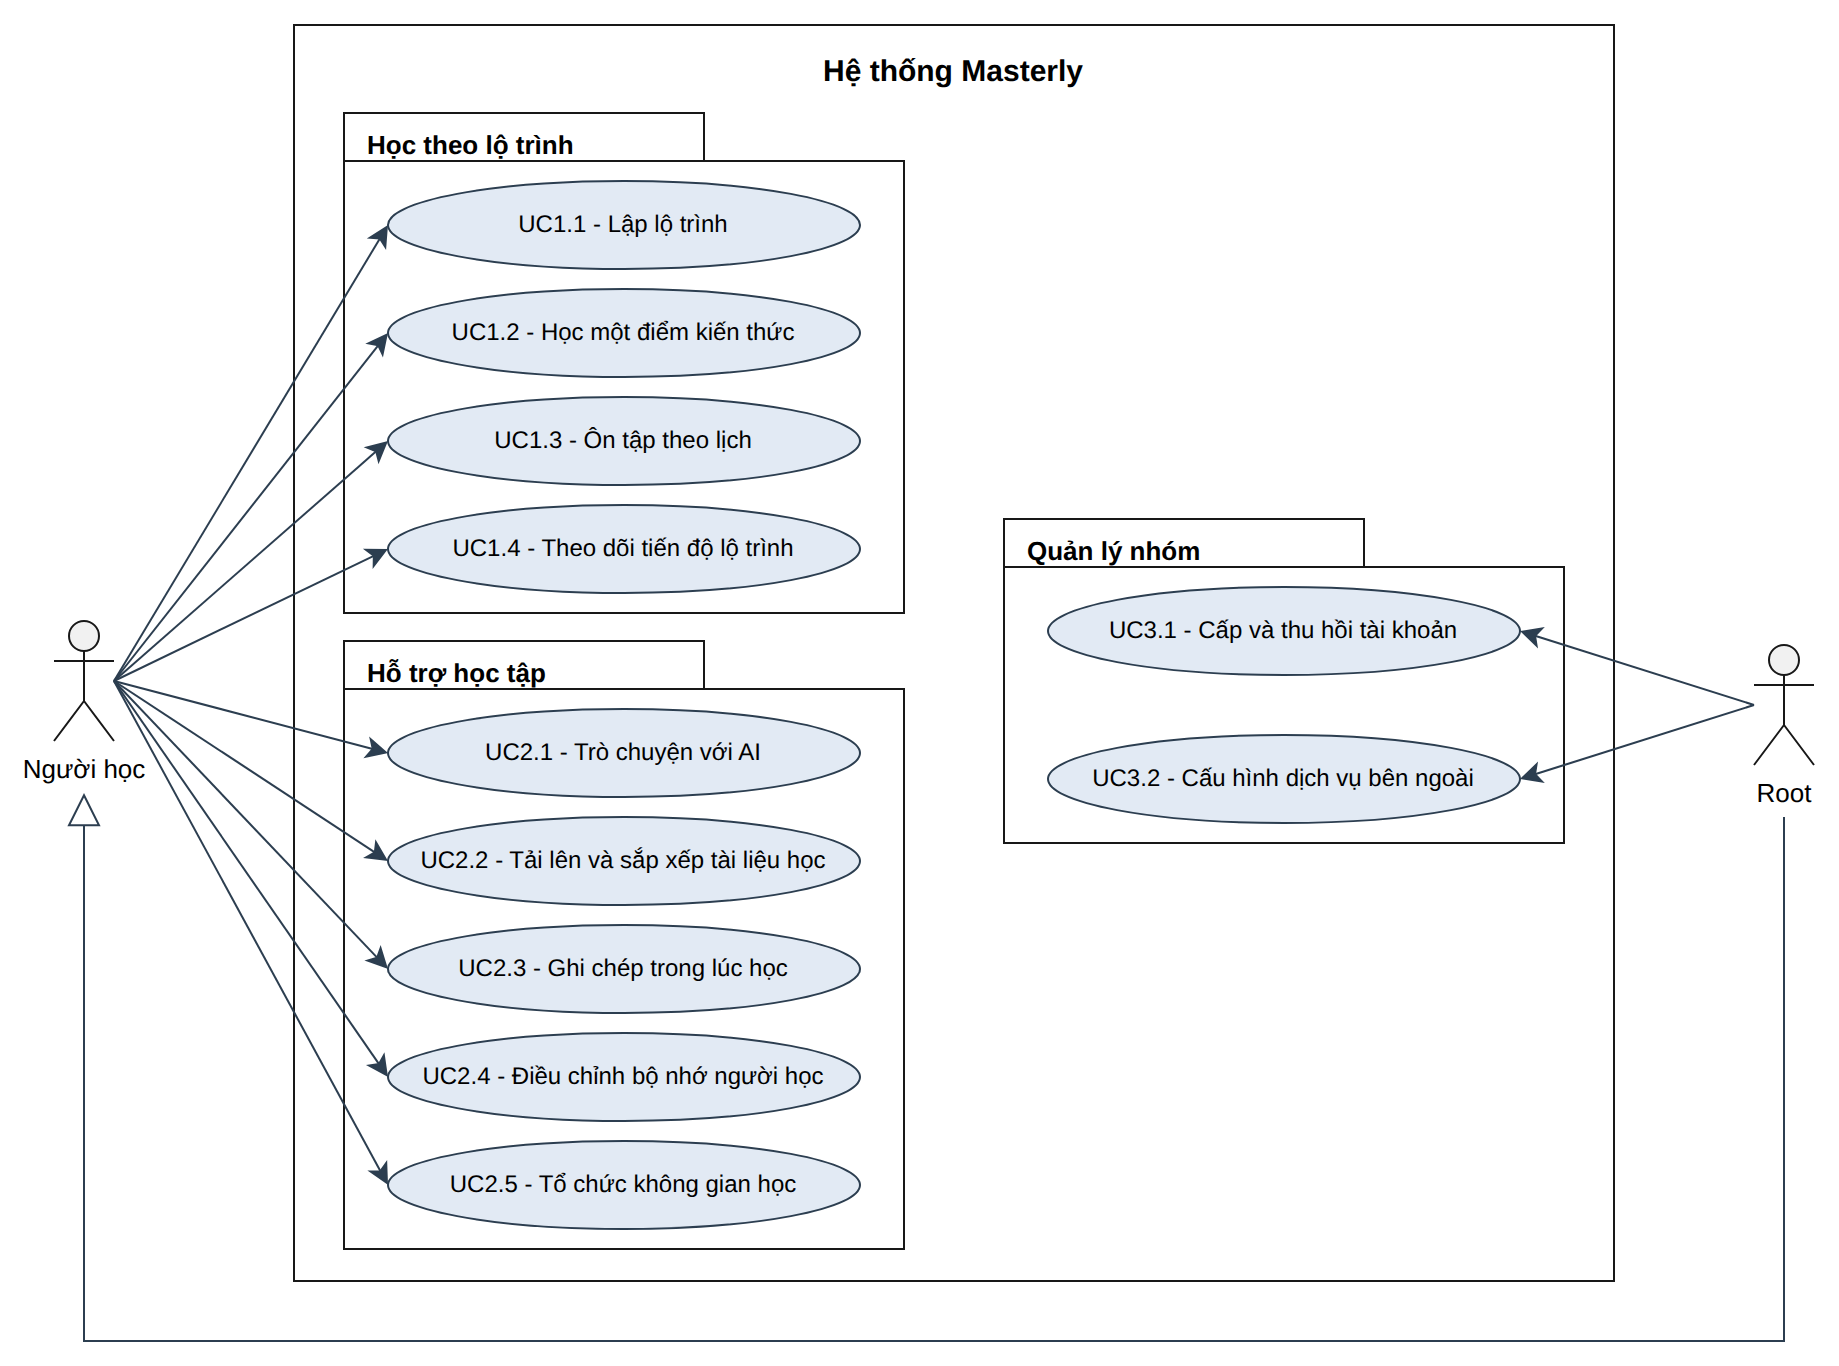
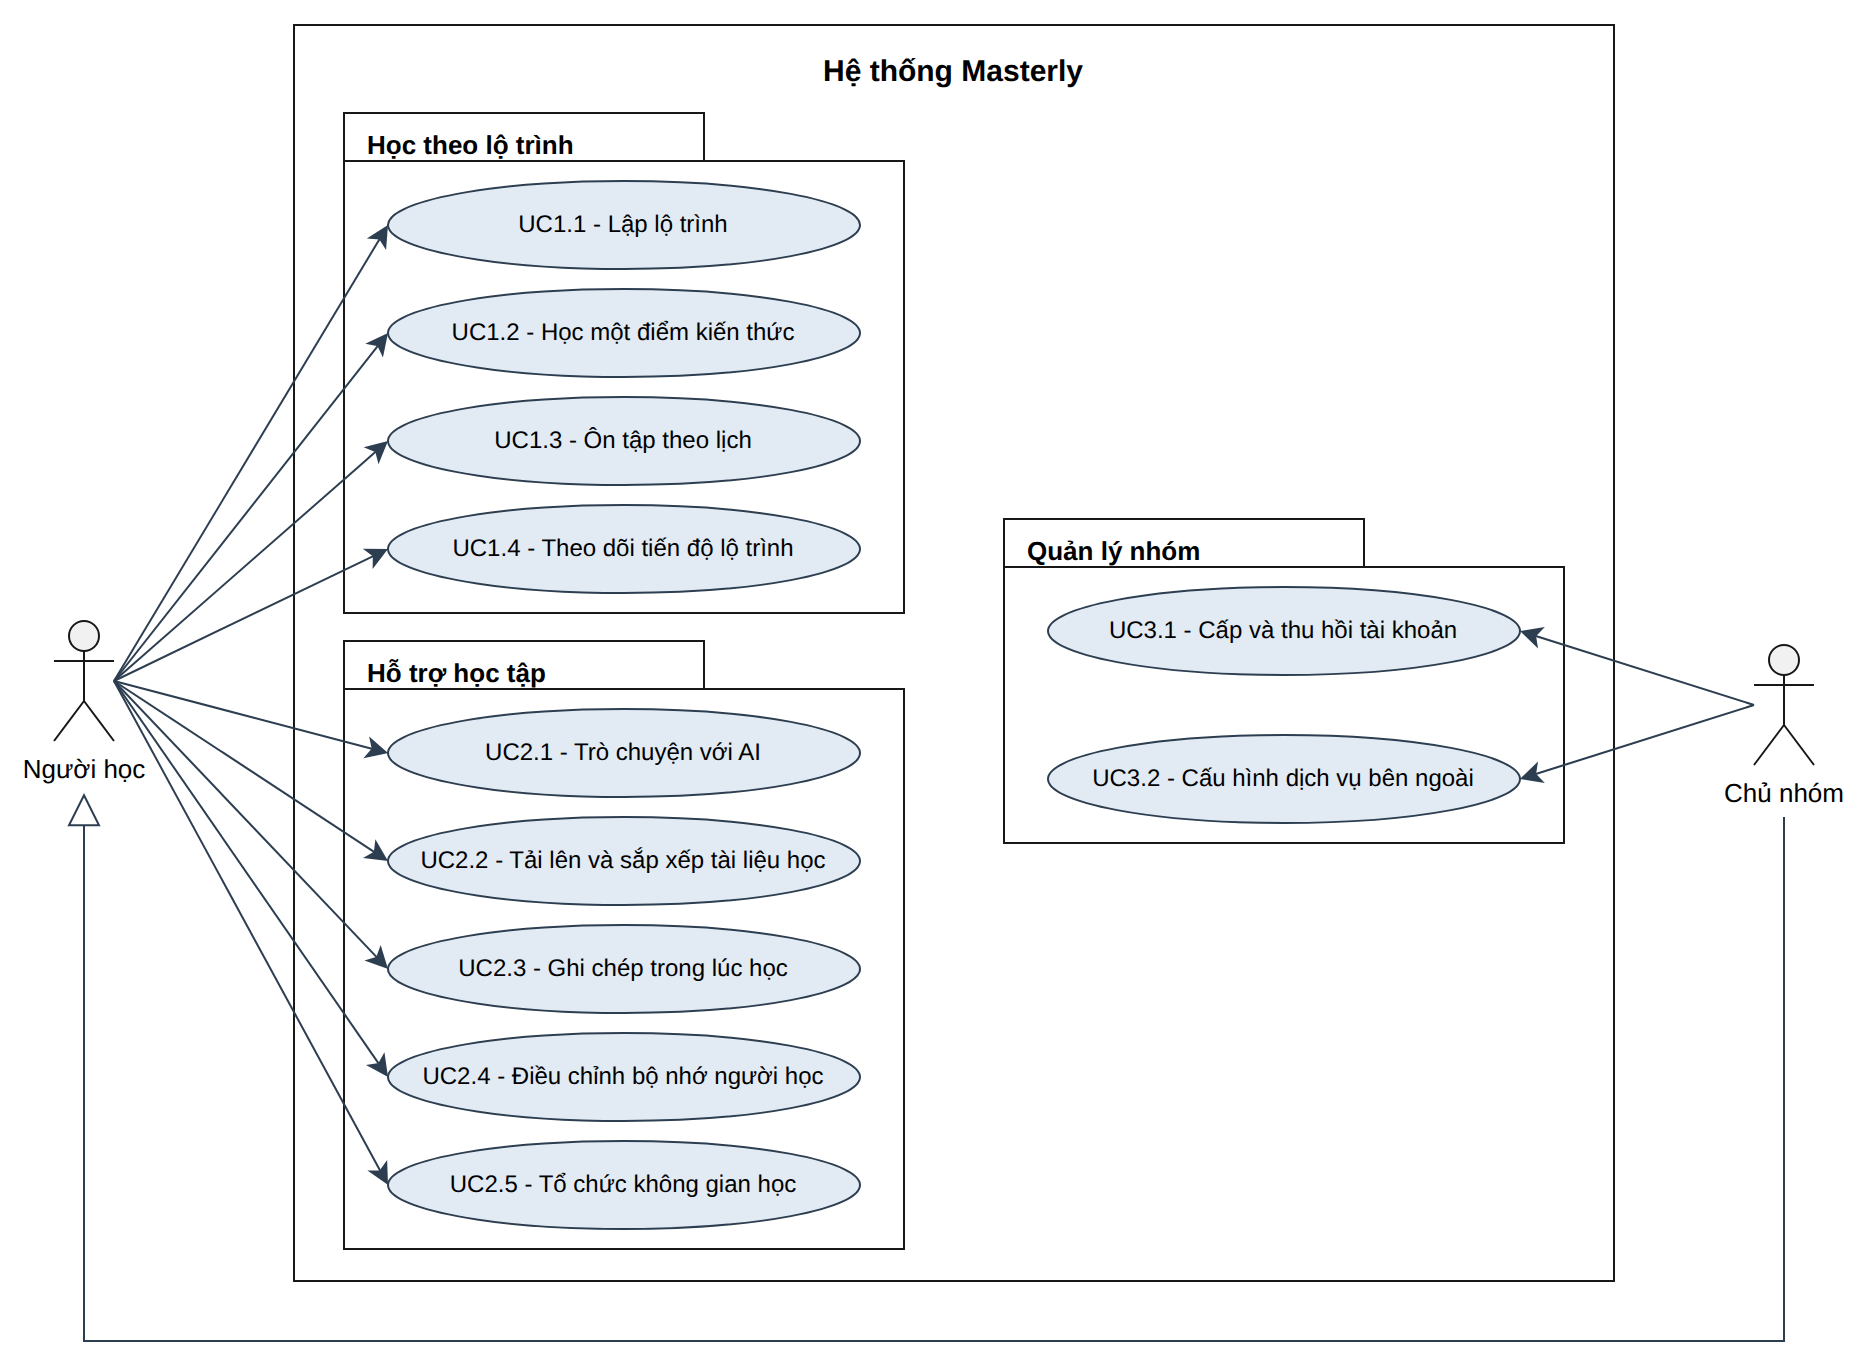
docs: call the self-registered account the group owner

diff --git a/report/chuong-2-phan-tich-yeu-cau.md b/report/chuong-2-phan-tich-yeu-cau.md
@@ -85,21 +85,21 @@ Hình 2.1. Biểu đồ hoạt động của quy trình học theo lộ trình
 ### 2.1.5. Phạm vi hệ thống
 
 - Ứng dụng web, giao diện tiếng Việt và tiếng Anh.
-- Mỗi người dùng có tài khoản và dữ liệu riêng. Ai cũng tự đăng ký được một tài khoản root bằng email và mật khẩu; root cấp tài khoản cho người học trong nhóm của mình.
+- Mỗi người dùng có tài khoản và dữ liệu riêng. Ai cũng tự đăng ký được một tài khoản chủ nhóm bằng email và mật khẩu; chủ nhóm cấp tài khoản cho người học trong nhóm của mình.
 - Việc sinh câu trả lời, xử lý tài liệu và tìm kiếm web dùng dịch vụ AI bên ngoài; hệ thống không tự huấn luyện mô hình.
 
 ## 2.2. Yêu cầu chức năng
 
 ### 2.2.1. Xác định các tác nhân
 
-Hệ thống có hai tác nhân. Mỗi root cùng các người học do root đó cấp tài khoản tạo thành một nhóm; hệ thống có nhiều nhóm và các nhóm tách biệt nhau. Các dịch vụ bên ngoài mà hệ thống kết nối tới không phải tác nhân.
+Hệ thống có hai tác nhân. Mỗi chủ nhóm cùng các người học do chủ nhóm đó cấp tài khoản tạo thành một nhóm; hệ thống có nhiều nhóm và các nhóm tách biệt nhau. 
 
 Bảng 2.2. Danh sách các tác nhân của hệ thống
 
 | STT | Tác nhân | Mô tả |
 |---|---|---|
-| 1 | Người học | Người dùng tài khoản do root cấp, dùng các chức năng học tập trên dữ liệu của riêng mình. |
-| 2 | Root | Người tự đăng ký tài khoản. Root học như người học, thêm quyền quản lý tài khoản người học trong nhóm và cấu hình các dịch vụ bên ngoài cho nhóm. |
+| 1 | Người học | Người dùng tài khoản do chủ nhóm cấp, dùng các chức năng học tập trên dữ liệu của riêng mình. |
+| 2 | Chủ nhóm | Người tự đăng ký tài khoản. Chủ nhóm học như người học, thêm quyền quản lý tài khoản người học trong nhóm và cấu hình các dịch vụ bên ngoài cho nhóm. |
 
 ### 2.2.2. Biểu đồ ca sử dụng tổng quát
 
@@ -107,9 +107,9 @@ Các ca sử dụng được chia thành ba nhóm (Hình 2.2):
 
 - Học theo lộ trình: phần lõi của hệ thống.
 - Hỗ trợ học tập: các chức năng phục vụ việc học, gồm hỏi đáp, tài liệu, ghi chép, bộ nhớ và không gian học.
-- Quản lý nhóm: phần root dùng để lập nhóm học và đưa các dịch vụ bên ngoài vào hoạt động.
+- Quản lý nhóm: phần chủ nhóm dùng để lập nhóm học và cấu hình các dịch vụ bên ngoài cho một nhóm.
 
-Người học dùng các ca sử dụng của hai nhóm đầu. Root có toàn bộ ca sử dụng của người học, thêm cấp và thu hồi tài khoản, cấu hình dịch vụ bên ngoài.
+Người học dùng các ca sử dụng của hai nhóm đầu. Chủ nhóm có toàn bộ ca sử dụng của người học, thêm cấp và thu hồi tài khoản, cấu hình dịch vụ bên ngoài.
 
 ![Hình 2.2. Biểu đồ ca sử dụng tổng quát của hệ thống Masterly](images/ca-su-dung-tong-quat.png)
 
@@ -128,8 +128,8 @@ Bảng 2.3. Danh sách các ca sử dụng của hệ thống
 | | UC2.3 | Ghi chép trong lúc học | Người học |
 | | UC2.4 | Điều chỉnh bộ nhớ người học | Người học |
 | | UC2.5 | Tổ chức không gian học | Người học |
-| 3. Quản lý nhóm | UC3.1 | Cấp và thu hồi tài khoản | Root |
-| | UC3.2 | Cấu hình dịch vụ bên ngoài | Root |
+| 3. Quản lý nhóm | UC3.1 | Cấp và thu hồi tài khoản | Chủ nhóm |
+| | UC3.2 | Cấu hình dịch vụ bên ngoài | Chủ nhóm |
 
 ### 2.2.3. Đặc tả các ca sử dụng
 
@@ -400,44 +400,44 @@ Hậu điều kiện: Không gian học được tạo hoặc thay đổi; các 
 
 #### UC3.1 - Cấp và thu hồi tài khoản
 
-Tác nhân chính: Root.
+Tác nhân chính: Chủ nhóm.
 
-Mô tả tóm lược: Hình 2.12 mô tả ca sử dụng root cấp tài khoản cho người học mới trong nhóm và thu hồi tài khoản không còn dùng. Người học đăng nhập bằng tài khoản được cấp.
+Mô tả tóm lược: Hình 2.12 mô tả ca sử dụng chủ nhóm cấp tài khoản cho người học mới trong nhóm và thu hồi tài khoản không còn dùng. Người học đăng nhập bằng tài khoản được cấp.
 
 ![Hình 2.12. Biểu đồ ca sử dụng UC3.1 - Cấp và thu hồi tài khoản](images/uc3-1-cap-va-thu-hoi-tai-khoan.png)
 
 Hình 2.12. Biểu đồ ca sử dụng UC3.1 - Cấp và thu hồi tài khoản
 
-Luồng cơ bản: luồng bắt đầu khi root mở trang quản lý tài khoản và kết thúc khi tài khoản mới được tạo.
+Luồng cơ bản: luồng bắt đầu khi chủ nhóm mở trang quản lý tài khoản và kết thúc khi tài khoản mới được tạo.
 
 Bảng 2.13. Luồng cơ bản của UC3.1
 
 | Hành động của tác nhân | Phản ứng của hệ thống | Dữ liệu liên quan |
 |---|---|---|
 | 1. Mở trang quản lý tài khoản. | 2. Hiển thị danh sách, thông tin các tài khoản trong nhóm. | Danh sách tài khoản |
-| 3. Chọn cấp tài khoản mới, nhập email và mật khẩu. | 4. Kiểm tra thông tin hợp lệ rồi tạo tài khoản trong nhóm; tài khoản mới dùng được ngay các dịch vụ bên ngoài root đã cấu hình. | Email, mật khẩu |
+| 3. Chọn cấp tài khoản mới, nhập email và mật khẩu. | 4. Kiểm tra thông tin hợp lệ rồi tạo tài khoản trong nhóm; tài khoản mới dùng được ngay các dịch vụ bên ngoài chủ nhóm đã cấu hình. | Email, mật khẩu |
 | | 5. Báo đã tạo và thêm tài khoản vào danh sách. | Tài khoản |
 
 Luồng thay thế:
 
-- Luồng thay thế 1 (Thu hồi tài khoản): tại bước 3, root chọn thu hồi một tài khoản trong nhóm và xác nhận. Hệ thống xóa tài khoản đó; người dùng đó không đăng nhập được nữa.
+- Luồng thay thế 1 (Thu hồi tài khoản): tại bước 3, chủ nhóm chọn thu hồi một tài khoản trong nhóm và xác nhận. Hệ thống xóa tài khoản đó; người dùng đó không đăng nhập được nữa.
 - Luồng thay thế 2 (Email đã được dùng): tại bước 4, nếu email đã có tài khoản, hệ thống báo lỗi và yêu cầu nhập email khác.
 
-Tiền điều kiện: Root đã đăng nhập.
+Tiền điều kiện: Chủ nhóm đã đăng nhập.
 
 Hậu điều kiện: Tài khoản mới đăng nhập được ngay; tài khoản bị thu hồi không đăng nhập được nữa.
 
 #### UC3.2 - Cấu hình dịch vụ bên ngoài
 
-Tác nhân chính: Root.
+Tác nhân chính: Chủ nhóm.
 
-Mô tả tóm lược: Hình 2.13 mô tả ca sử dụng root khai báo các dịch vụ AI bên ngoài và chọn mô hình dùng chung cho cả nhóm. Có ba dịch vụ: mô hình ngôn ngữ lớn (LLM) để trả lời câu hỏi, mô hình nhúng (embedding) để xử lý tài liệu, và dịch vụ tìm kiếm web. Chỉ root thấy và sửa được phần cấu hình của nhóm.
+Mô tả tóm lược: Hình 2.13 mô tả ca sử dụng chủ nhóm khai báo các dịch vụ AI bên ngoài và chọn mô hình dùng chung cho cả nhóm. Có ba dịch vụ: mô hình ngôn ngữ lớn (LLM) để trả lời câu hỏi, mô hình nhúng (embedding) để xử lý tài liệu, và dịch vụ tìm kiếm web. Chỉ chủ nhóm thấy và sửa được phần cấu hình của nhóm.
 
 ![Hình 2.13. Biểu đồ ca sử dụng UC3.2 - Cấu hình dịch vụ bên ngoài](images/uc3-2-cau-hinh-dich-vu-ben-ngoai.png)
 
 Hình 2.13. Biểu đồ ca sử dụng UC3.2 - Cấu hình dịch vụ bên ngoài
 
-Luồng cơ bản: luồng bắt đầu khi root mở trang cấu hình dịch vụ và kết thúc khi đã chọn mô hình cho các dịch vụ.
+Luồng cơ bản: luồng bắt đầu khi chủ nhóm mở trang cấu hình dịch vụ và kết thúc khi đã chọn mô hình cho các dịch vụ.
 
 Bảng 2.14. Luồng cơ bản của UC3.2
 
@@ -450,9 +450,9 @@ Bảng 2.14. Luồng cơ bản của UC3.2
 
 Luồng thay thế:
 
-- Luồng thay thế 1 (Kết nối không thành công): tại bước 6, nếu không kết nối được, ví dụ khóa truy cập sai, hệ thống báo lỗi kèm lý do. Root sửa thông tin rồi kiểm tra lại.
+- Luồng thay thế 1 (Kết nối không thành công): tại bước 6, nếu không kết nối được, ví dụ khóa truy cập sai, hệ thống báo lỗi kèm lý do. Chủ nhóm sửa thông tin rồi kiểm tra lại.
 
-Tiền điều kiện: Root đã đăng nhập.
+Tiền điều kiện: Chủ nhóm đã đăng nhập.
 
 Hậu điều kiện: Các dịch vụ bên ngoài được cấu hình và kiểm tra; mọi người trong nhóm dùng chung cấu hình này.
 
@@ -462,9 +462,9 @@ Ngoài các chức năng ở mục 2.2, hệ thống cần đáp ứng các yêu
 
 Bảo mật và quyền riêng tư:
 
-- Người dùng tự đăng ký tài khoản root bằng email và mật khẩu, hoặc dùng tài khoản do root cấp; phiên đăng nhập có thời hạn.
+- Người dùng tự đăng ký tài khoản chủ nhóm bằng email và mật khẩu, hoặc dùng tài khoản do chủ nhóm cấp; phiên đăng nhập có thời hạn.
 - Dữ liệu của mỗi người được tách riêng; người học chỉ xem được dữ liệu của mình. Các nhóm tách biệt nhau.
-- Khóa truy cập các dịch vụ bên ngoài chỉ root của nhóm sửa được và không bao giờ hiển thị đầy đủ.
+- Khóa truy cập các dịch vụ bên ngoài chỉ chủ nhóm sửa được và không bao giờ hiển thị đầy đủ.
 
 Tin cậy:
 
@@ -490,6 +490,6 @@ Khả năng thay thế:
 
 Chương này đã khảo sát bài toán tự học bằng AI và các giải pháp hiện có, từ đó xác định Masterly là một vòng học khép kín: lập lộ trình theo mục tiêu, học từng điểm kiến thức đến khi nắm vững và ôn tập theo lịch.
 
-Hệ thống có hai tác nhân là người học và root, với 11 ca sử dụng chia thành ba nhóm. Mỗi ca sử dụng được đặc tả bằng biểu đồ riêng, luồng cơ bản và các luồng thay thế chính. Các yêu cầu phi chức năng tập trung vào bảo mật dữ liệu, độ tin cậy, tính nhất quán khi xét nắm vững và tính dễ dùng.
+Hệ thống có hai tác nhân là người học và chủ nhóm, với 11 ca sử dụng chia thành ba nhóm. Mỗi ca sử dụng được đặc tả bằng biểu đồ riêng, luồng cơ bản và các luồng thay thế chính. Các yêu cầu phi chức năng tập trung vào bảo mật dữ liệu, độ tin cậy, tính nhất quán khi xét nắm vững và tính dễ dùng.
 
 Chương tiếp theo trình bày thiết kế hệ thống dựa trên các yêu cầu này.

diff --git a/README.md b/README.md
@@ -43,7 +43,7 @@ nhận việc giảng giải và đặt câu hỏi.
 **Tài khoản và quản trị**
 
 - Mỗi người dùng có tài khoản và dữ liệu riêng.
-- Ai cũng tự đăng ký được tài khoản root; root cấu hình mô hình AI và tạo, xóa
+- Ai cũng tự đăng ký được tài khoản chủ nhóm; chủ nhóm cấu hình mô hình AI và tạo, xóa
   tài khoản người học cho nhóm của mình.
 
 ## Trạng thái
